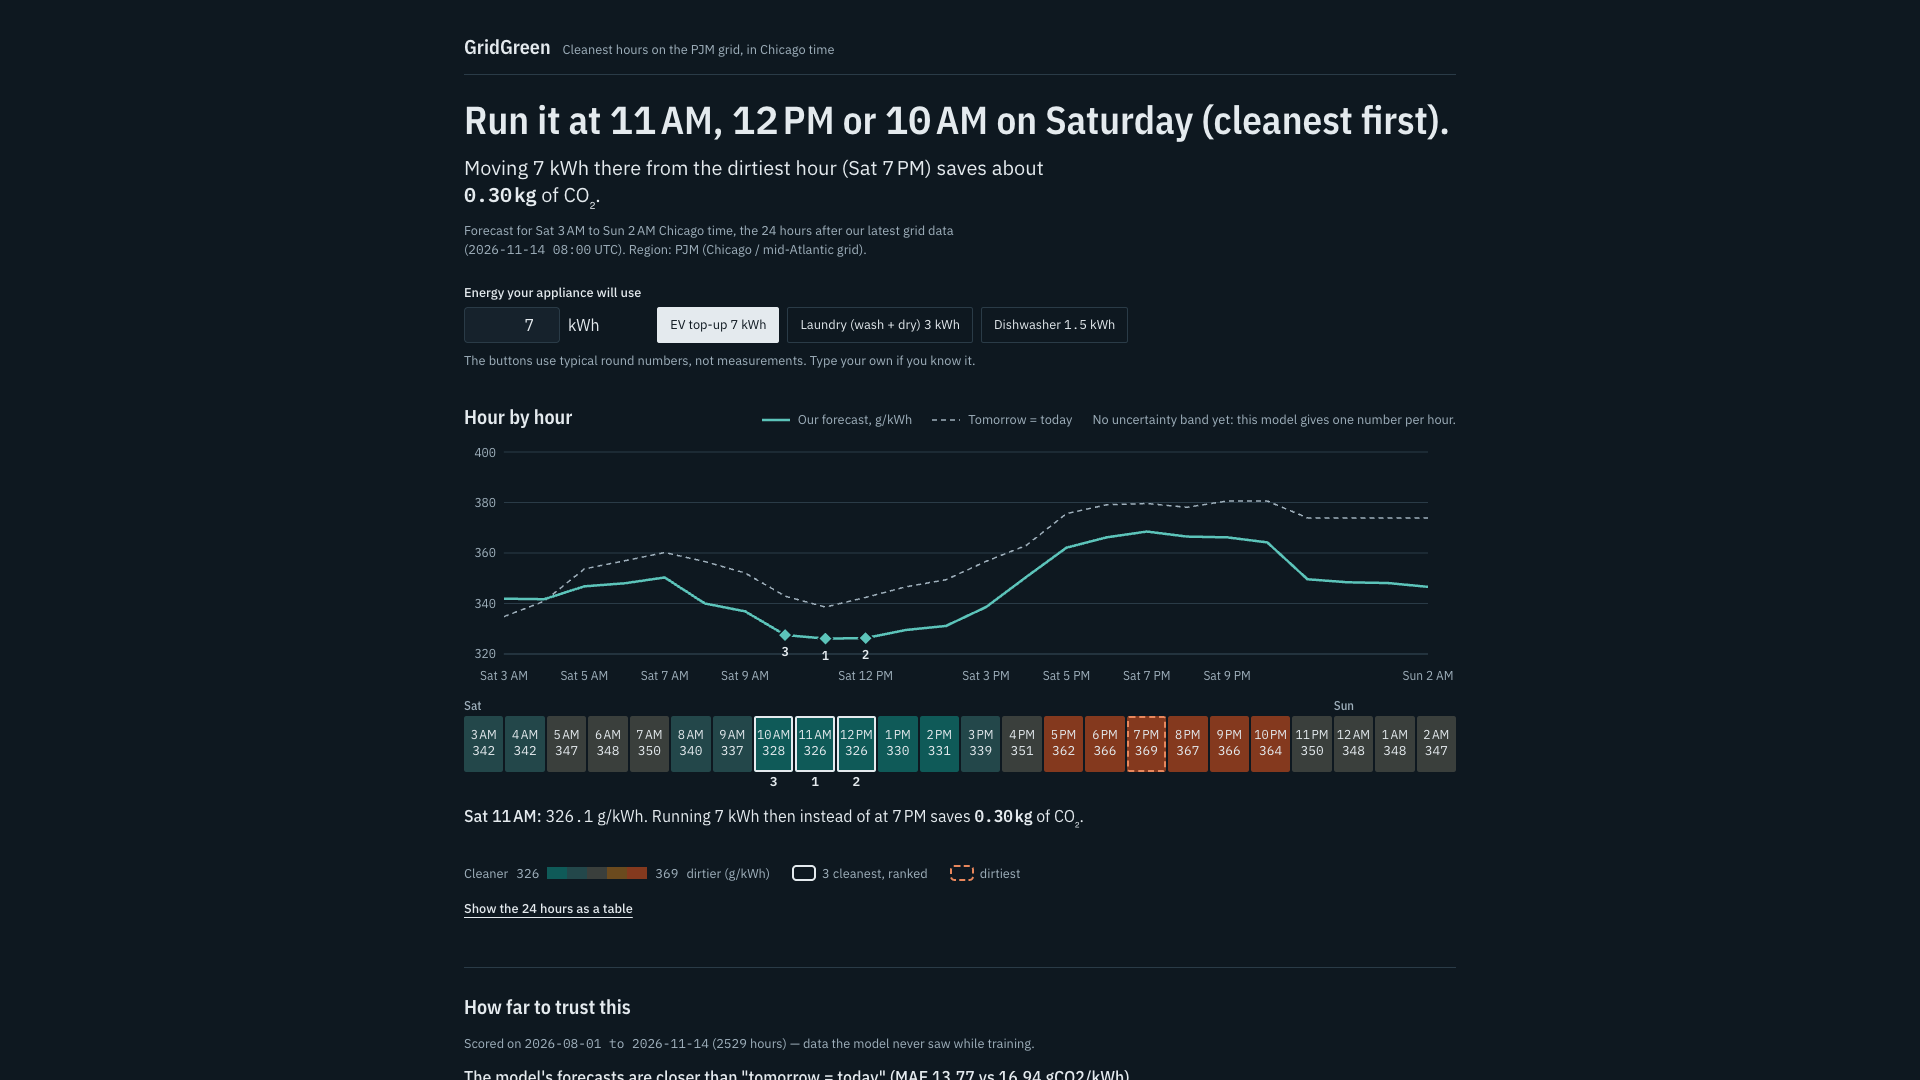
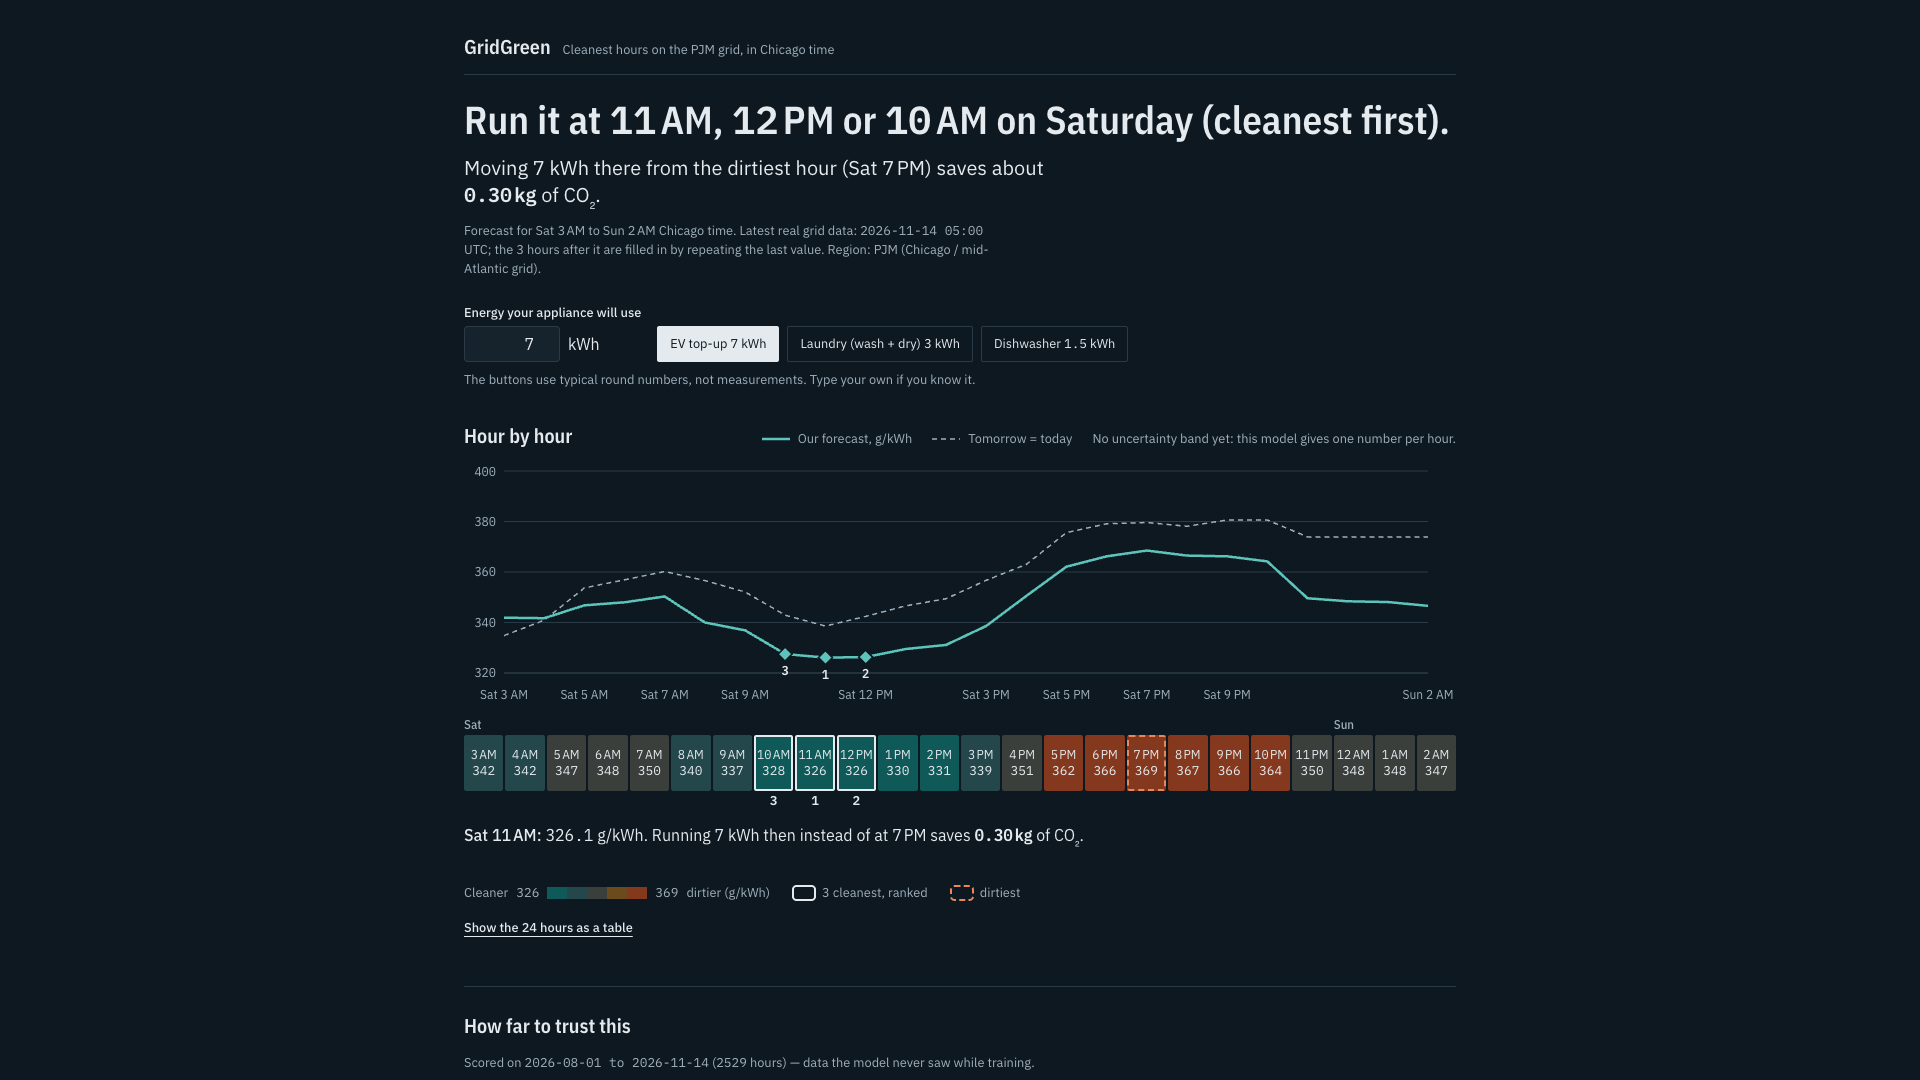
docs: review pass record (trace, break tests, security, fresh clone) and updated screenshots

diff --git a/docs/ui_notes.md b/docs/ui_notes.md
@@ -100,3 +100,278 @@ Other calls: dark theme follows the OS setting (no toggle); the strip's day name
 where a day starts (like a tide table's date line); the strip covers the 24 forecast hours, which
 start after our latest data, not midnight-to-midnight "tomorrow"; Recharts' focusable chart
 SVG got a visible focus outline (it hid it by default).
+
+## Review pass (Sun Nov 15)
+
+All six checks pass. Commits: `135bc8a` (review fixes), `a8cb811` (input honesty, no
+dangerouslySetInnerHTML, README setup). Everything below is pasted command output.
+
+### 1. /code-review — 10 findings, 7 fixed, 3 out of scope
+| # | Finding | Status |
+|---|---|---|
+| 1 | Out-of-order forecast responses could overwrite newer ones (stale kg for a different load) | **Fixed**: `page.tsx` effect drops answers from superseded requests (`live` flag) |
+| 2 | NaN in `failure_features.csv` would make `/api/failures` a 500 (JSON has no NaN) | **Fixed**: `_records()` turns NaN into null; test `test_records_turns_nan_into_null` |
+| 3 | API-down alert gave no way back | **Fixed**: message now says "Start it with: make api, then reload this page" |
+| 4 | CORS allowed only port 3000; `next dev` on 3001 looked like "API down" | **Fixed**: `allow_origin_regex` = localhost / 127.0.0.1, any port (still local only, see 5) |
+| 5 | Model re-loaded from disk on every request | **Fixed**: `functools.lru_cache` on `_model()` (same caching as `main.model()`) |
+| 6 | Forecast pad/ffill logic copied in 3 places (app.py, /predict, service.py) | Not fixed: the shared home is `ml/` (MODEL agent's `ml/predict.py`), outside WEB paths |
+| 7 | Page called the 3 gap-filled hours "our latest grid data" | **Fixed**: `data_through_utc` = last REAL hour from `data/raw/gridgreen_PJM.csv` (05:00 UTC); new `filled_hours` (3) is stated on the page |
+| 8 | `verdict()` said "loses to" when overlaps were equal | **Fixed**: equal → "ties"; test added |
+| 9 | New libraries are in `coordination/credits.d/WEB.md`, not `CREDITS.md` | Not fixed here: the wave-2 prompt routes credits through credits.d; WRITEUP owns `CREDITS.md`. **Must be merged before submission.** |
+| 10 | Next.js 16 instead of the 14 named in CLAUDE.md §4 | Not changed: the wave-2 prompt said to scaffold with current versions. `cacheComponents` / `partialPrefetching` in `next.config.ts` are create-next-app 16.4 defaults. Team should be ready to say "Next.js 16" to a judge. |
+
+Also changed during the pass: while the kWh box holds an invalid value, the kg sentence, the
+readout's kg clause and the table's kg column are hidden (they were computed for the last valid
+load and would sit next to a different number). Found in check 4.
+
+### 2. Trace: every number in `docs/ui/*.png` → API field → file / model output
+| On the page | API field | Source |
+|---|---|---|
+| "Run it at 11 AM, 12 PM or 10 AM … Saturday" | `/api/forecast` `cleanest_hours` | `ml.recommend.recommend` on predictions of `ml/artifacts/model.joblib` over the last 192 h of `data/processed/` |
+| "dirtiest hour (Sat 7 PM)" | `dirtiest_hour` | same |
+| "7 kWh" | `load_kwh` | the user's input, echoed by the API |
+| "0.30 kg of CO₂" | `co2_saved_kg` | `ml.recommend.recommend` |
+| "Sat 3 AM to Sun 2 AM" | `hours[0].ts_local`, `hours[23].ts_local` | last processed hour + 1…24 h |
+| "2026-11-14 05:00 UTC", "the 3 hours after it" | `data_through_utc`, `filled_hours` | last non-empty CI in `data/raw/gridgreen_PJM.csv`; end of `data/processed/` minus that |
+| Chart line, strip values (342 … 347), table column 2 | `hours[].forecast` | `model.joblib` predictions |
+| Dashed line, table column 3 | `hours[].persistence` | `ml.baseline.persistence` |
+| Readout "326.1 g/kWh … saves 0.30 kg", table column 4 | `hours[i].forecast`, `hours[i].saved_kg` | `(max forecast − hour) × kWh / 1000`, the `ml/recommend.py` formula |
+| Diamonds / ranks 1 2 3, outlines | order of `cleanest_hours` | same as headline |
+| Strip legend 326 … 369 | min / max of `hours[].forecast` (rounded for display) | model predictions |
+| Y-axis ticks 320 … 400, failure-chart ticks 330 … 450 | Recharts auto-scale of the plotted values | API data |
+| "2026-08-01 to 2026-11-14 (2529 hours)" | `/api/metrics` `metrics._meta` | `results/metrics.json` |
+| Table 16.94/0.483, 28.43/0.387, 15.18/0.448, 13.77/0.473 | `metrics.<key>.mae / cleanest_3_overlap` | `results/metrics.json` |
+| Verdict 13.77, 16.94, 0.473, 0.483, −0.051, +0.035 | `verdict` | `results/metrics.json` + `results/ranking_diagnosis.json` (`bootstrap_95ci`) |
+| "Wed 2026-10-14", "29.9 gCO₂/kWh", "persistence: 36.1" | `/api/failures` `days[0]` | `ml.failures.daily_errors` over `results/test_predictions.csv` (worst = max model MAE) |
+| Failure paragraph and pattern paragraph (30, 12, 375 → 411, +36, 17 %, 24 → 19, 1.02x, 6.4 % → 3.3 %, 1.16x, 5 of 5, 18-48 g, 45 %, 13-state) | `days[0].explanation`, `pattern` | verbatim from `results/failures.md` |
+| Failure chart (24 × 3 values) | `days[0].hours` | `results/test_predictions.csv` |
+| Presets 7 / 3 / 1.5 kWh, limit 0–200 | none | `web/lib/presets.ts`, labelled illustrative on the page; bounds match `api/main.py` |
+| "24 hours", "3 cleanest", "10–90 %", "EIA (2023)", "CC BY 4.0" | none | fixed labels and source names, not results (`HORIZON_HOURS`, `CLEANEST_K` in `ml/config.py`) |
+
+Nothing was untraceable, so nothing was removed. Automated check (`.context/trace.py`) recomputes
+each value independently (re-running the model through `app.py`'s own forecast function and
+re-reading the files) and compares with the live API:
+```
+PASS  24 hourly forecasts (strip, chart, table)    shown=341.9..346.6                       source=ml/artifacts/model.joblib via app.py
+PASS  persistence line                             shown=334.8                              source=ml.baseline.persistence
+PASS  3 cleanest hours (headline, diamonds, outlines) shown=['11:00', '12:00', '10:00']        source=ml.recommend.recommend
+PASS  dirtiest hour                                shown=19:00                              source=ml.recommend.recommend
+PASS  kg CO2 saved (headline)                      shown=0.297                              source=ml.recommend.recommend
+PASS  kg saved per hour (readout, table)           shown=0.186                              source=same formula as recommend
+PASS  latest real grid data                        shown=2026-11-14T05:00:00+00:00          source=data/raw/gridgreen_PJM.csv
+PASS  gap-filled hours                             shown=3                                  source=data/processed/ end - raw last
+PASS  forecast window start / end                  shown=2026-11-14T03:00 / 2026-11-15T02:00 source=last processed hour + 1..24
+PASS  table row persistence                        shown=16.94 / 0.483                      source=results/metrics.json
+PASS  table row last_week                          shown=28.43 / 0.387                      source=results/metrics.json
+PASS  table row model_lags_only                    shown=15.18 / 0.448                      source=results/metrics.json
+PASS  table row model                              shown=13.77 / 0.473                      source=results/metrics.json
+PASS  test period + hours                          shown=2026-08-01 to 2026-11-14 (2529)    source=results/metrics.json _meta
+PASS  verdict sentence numbers                     shown=13.77 16.94 0.473 0.483 -0.051 +0.035 source=metrics.json + ranking_diagnosis.json
+PASS  worst day                                    shown=2026-10-14                         source=max model_mae in test_predictions.csv
+PASS  worst-day model / persistence MAE            shown=29.9 / 36.1                        source=results/test_predictions.csv
+PASS  explanation paragraph (all its numbers)      shown=Level offset: under-predicted ...  source=results/failures.md
+PASS  pattern paragraph (all its numbers)          shown=5 of 5 days are level offsets ...  source=results/failures.md
+PASS  failure chart 24 x 3 values                  shown=24                                 source=results/test_predictions.csv
+```
+
+### 3. Hard-coded result digits in web/ — none
+`grep` for decimals, percentages, kg and g/kWh in `web/app`, `web/components`, `web/lib`
+(excluding vendored `components/ui/`):
+```
+app/page.tsx:127:0.5
+components/forecast-chart.tsx:12:–90 %
+components/forecast-chart.tsx:54:0.15
+components/hour-strip.tsx:25:0.5
+components/hour-strip.tsx:45:0.75
+```
+
+All five are styling or input settings: input `step={0.5}`, the band label "10–90 %" (shown only
+when the API sends lo/hi), band `fillOpacity={0.15}`, Tailwind `gap-0.5`, cell font `0.75rem`. The
+wider scan of every digit literal (60 lines) found only layout sizes, SVG geometry, ISO-string
+slicing, the 5 colour steps, rank `i + 1`, the presets file and the debounce delay (300 ms). The
+default kWh now comes from `PRESETS[0]` instead of a literal "7".
+
+### 4. Break it on purpose
+**4a. API stopped** — `docs/ui/break/api-down.png`. Only the alert is shown; no numbers.
+```
+{"console_errors": 3 x "Failed to load resource: net::ERR_CONNECTION_REFUSED" (expected),
+ "failed_requests": [/api/metrics, /api/failures, /api/forecast?load_kwh=7  net::ERR_CONNECTION_REFUSED],
+ "visible_text": "The forecast service is not running | Cannot reach the GridGreen API at http://localhost:8000.
+   Start it with: make api, then reload this page. Nothing else is shown until the service answers."}
+```
+**4b. `ml/artifacts/model.joblib` missing** (scratch copy `.context/scratch-nomodel/` with the file
+left out; the real artifact was never touched) — `docs/ui/break/model-missing.png`. The forecast
+block is replaced by the API's own message; the test results and failure day still show, because
+they come from `results/`, not the live model.
+```
+$ curl localhost:8000/health
+{"status":"ok","region":"PJM (Chicago / mid-Atlantic grid)","model_trained":false}
+$ curl "localhost:8000/api/forecast?load_kwh=7"
+{"detail":"model not trained yet: run `make train`"}  HTTP 503
+metrics HTTP 200
+failures HTTP 200
+```
+```
+{
+ "out": "model-missing.png",
+ "horizontal_overflow_px": 0,
+ "console_errors": [
+  "Failed to load resource: the server responded with a status of 503 (Service Unavailable)"
+ ],
+ "failed_requests": [
+  "http://localhost:8000/api/forecast?load_kwh=7 HTTP 503"
+ ],
+ "input_value": "7",
+ "visible_text": "The model or data is missingmodel not trained yet: run `make train` | The buttons use typical round numbers, not measurements. Type your own if you know it."
+}
+```
+
+**4c. load_kwh = −1 and 99999.** API:
+```
+$ curl "localhost:8000/api/forecast?load_kwh=-1"
+{"detail":[{"type":"greater_than_equal","loc":["query","load_kwh"],"msg":"Input should be greater than or equal to 0",...}]}  HTTP 422
+$ curl "localhost:8000/api/forecast?load_kwh=99999"
+{"detail":[{"type":"less_than_equal","loc":["query","load_kwh"],"msg":"Input should be less than or equal to 200",...}]}  HTTP 422
+```
+Page (typed into the box; no request is sent, the kg claims disappear, the hours stay because
+they do not depend on the load) — `docs/ui/break/kwh-minus1.png`, `kwh-99999.png`:
+```
+{
+ "out": "kwh-minus1.png",
+ "horizontal_overflow_px": 0,
+ "console_errors": [],
+ "failed_requests": [],
+ "input_value": "-1",
+ "visible_text": "Run it at 11 AM, 12 PM or 10 AM on Saturday (cleanest first). | Enter a number from 0 to 200 kWh."
+}
+{
+ "out": "kwh-99999.png",
+ "horizontal_overflow_px": 0,
+ "console_errors": [],
+ "failed_requests": [],
+ "input_value": "99999",
+ "visible_text": "Run it at 11 AM, 12 PM or 10 AM on Saturday (cleanest first). | Enter a number from 0 to 200 kWh."
+}
+```
+
+**4d. 320 px wide** — `docs/ui/break/width-320.png` (full page): no horizontal scroll
+(`horizontal_overflow_px: 0`), 0 console errors, 0 failed requests; the strip wraps to rows of 8,
+the table's method names wrap.
+
+### 5. Security
+```
+$ grep -n "allow_origin\|CORSMiddleware" api/main.py
+73:from fastapi.middleware.cors import CORSMiddleware  # noqa: E402
+79:app.add_middleware(CORSMiddleware, allow_origin_regex=r"http://(localhost|127\.0\.0\.1)(:\d+)?",
+Origin http://localhost:3000          -> access-control-allow-origin: http://localhost:3000
+
+Origin http://127.0.0.1:3001          -> access-control-allow-origin: http://127.0.0.1:3001
+
+Origin http://localhost               -> access-control-allow-origin: http://localhost
+
+Origin https://evil.example           -> 
+Origin http://localhost.evil.example  -> 
+Origin http://192.168.1.5:3000        -> 
+Preflight POST from localhost:3000 -> HTTP 400
+$ grep -rniE "(api[_-]?key|secret|token|password|bearer|sk-[a-z0-9]{10})" web (excluding node_modules, .next)
+web/app/globals.css:9:   GridGreen tokens. "A tide table for the grid": ink on cool paper, and one
+web/app/globals.css:34:  /* shadcn/ui tokens mapped onto ours, so its components inherit the palette. */
+web/package-lock.json:53:        "js-tokens": "^4.0.0",
+web/package-lock.json:6238:    "node_modules/js-tokens": {
+web/package-lock.json:6240:      "resolved": "https://registry.npmjs.org/js-tokens/-/js-tokens-4.0.0.tgz",
+web/package-lock.json:6742:        "js-tokens": "^3.0.0 || ^4.0.0"
+$ grep -rn "dangerouslySetInnerHTML" web (excluding node_modules, .next)
+(no matches outside the comment explaining its removal)
+$ git ls-files | grep -iE "(^|/)\.env"
+(no tracked .env files)
+$ grep -n "env" .gitignore web/.gitignore
+.gitignore:5:.venv/
+.gitignore:6:venv/
+.gitignore:9:.env
+web/.gitignore:33:# env files (can opt-in for committing if needed)
+web/.gitignore:34:.env*
+web/.gitignore:41:next-env.d.ts
+$ grep -rn "process.env" web/app web/components web/lib
+web/lib/api.ts:3:export const API_URL = process.env.NEXT_PUBLIC_API_URL ?? "http://localhost:8000"
+```
+
+CORS: only `http://localhost[:port]` and `http://127.0.0.1[:port]` get an allow header
+(`fullmatch`, so `localhost.evil.example` is refused); GET only, so a browser preflight for
+POST is rejected (400). Secret grep: the only hits are the word "tokens" in CSS comments and the
+`js-tokens` package. `dangerouslySetInnerHTML`: the one use was in vendored
+`components/ui/chart.tsx`; replaced with a plain `<style>` text child (the CSS comes only from
+static chart config). `.env*`: none tracked; `web/.gitignore` ignores `.env*`, the root ignores `.env`.
+
+### 6. Fresh clone, following web/README.md word for word
+```
+$ git clone --branch Santosh-Krishna-Reddy/pasted-text-content <this repo> <tmp>/clone
+a8cb811 fix: hide kg claims while load input is invalid, drop dangerouslySetInnerHTML, complete web README setup
+$ uv venv --python 3.12 && uv pip install -r requirements.txt
+ + urllib3==2.8.0
+ + uvicorn==0.54.0
+$ make data train eval rank failures
+clean: 25155 hourly rows, 27 gap hours interpolated/dropped
+train: 22626 rows 2024-01-01 -> 2026-07-31
+test:  2529 rows 2026-08-01 -> 2026-11-14
+trained on 22458 rows, 38 features
+trained on 22458 rows, 28 features
+saved <tmp>/clone/ml/artifacts/model.joblib and <tmp>/clone/ml/artifacts/model_lags_only.joblib
+  "model_deviation": {
+    "mae": 14.200628021383613,
+  "model_deviation_today_mean": {
+    "mae": 19.265933569063286,
+  "model_rank": {
+    "mae": 19.40128655324754,
+    "mae": 16.937007694349827,
+    "mae": 28.430873733284734,
+  "model": {
+    "mae": 13.768439399947058,
+  "model_lags_only": {
+    "mae": 15.180547069739413,
+    "test_rows": 2529,
+    "model": 0.828807901738386,
+make data train eval rank failures 2>&1  109.60s user 43.16s system 268% cpu 56.841 total
+$ diff results/metrics.json <original repo>/results/metrics.json
+(identical)
+$ diff results/failures.md <original>
+(identical)
+```
+
+```
+$ make api   (terminal 1)
+INFO:     Uvicorn running on http://127.0.0.1:8000 (Press CTRL+C to quit)
+INFO:     Application startup complete.
+$ cd web && npm install && npm run dev   (terminal 2)
+  npm audit fix --force
+
+Run `npm audit` for details.
+- Local:         http://localhost:3000
+✓ Ready in 258ms
+✓ Running next.config.ts took 1756ms
+$ curl localhost:8000/health
+{"status":"ok","region":"PJM (Chicago / mid-Atlantic grid)","model_trained":true}
+$ open http://localhost:3000 (headless Chrome)
+{
+ "out": "fresh-clone.png",
+ "horizontal_overflow_px": 0,
+ "console_errors": [],
+ "failed_requests": [],
+ "input_value": "7",
+ "visible_text": "Run it at 11 AM, 12 PM or 10 AM on Saturday (cleanest first). | The buttons use typical round numbers, not measurements. Type your own if you know it."
+}
+```
+
+Screenshot: `docs/ui/break/fresh-clone.png`. The clone's results are byte-identical to the
+committed ones (seed 42). `npm install` reports 7 moderate advisories in dev dependencies
+(`npm audit`); not addressed, as `npm audit fix --force` would change major versions.
+
+### Screenshots
+`docs/ui/{light,dark}-{1440x900,1920x1080,390x844}.png` retaken after these fixes; all six:
+```
+light-1440x900 console errors: 0 [] failed requests: 0 []
+light-1920x1080 console errors: 0 [] failed requests: 0 []
+light-390x844 console errors: 0 [] failed requests: 0 []
+dark-1440x900 console errors: 0 [] failed requests: 0 []
+dark-1920x1080 console errors: 0 [] failed requests: 0 []
+dark-390x844 console errors: 0 [] failed requests: 0 []
+```

diff --git a/coordination/status.d/WEB.md b/coordination/status.d/WEB.md
@@ -1,1 +1,1 @@
-WEB: design pass done — tide-table strip, Plex type, light+dark palette, 6 screenshots in docs/ui/; API adds hours[].saved_kg; lo/hi still null until ml/predict.py
+WEB: review pass done — 7/10 code-review findings fixed (rest out of scope, see docs/ui_notes.md), all numbers traced, break tests + security + fresh clone pass; CREDITS.md still needs credits.d/WEB.md merged (WRITEUP)
